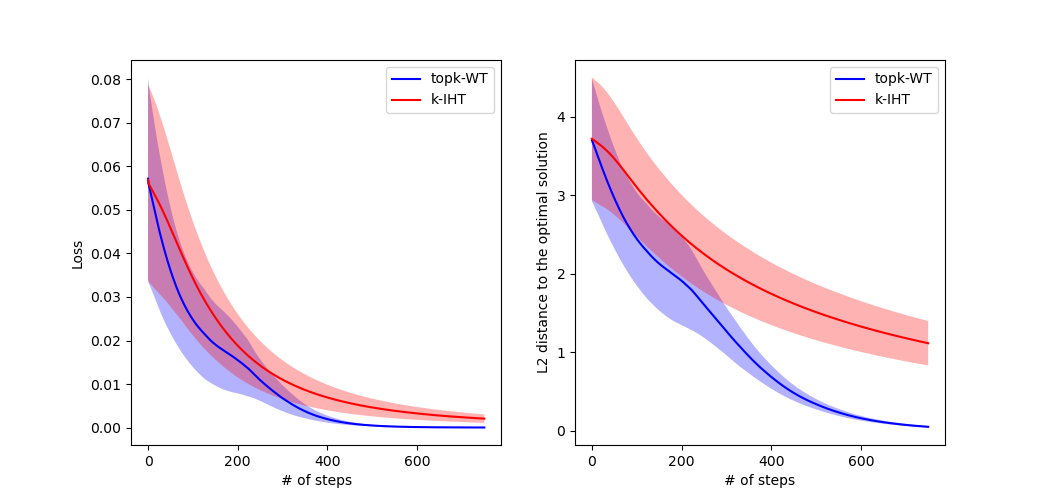
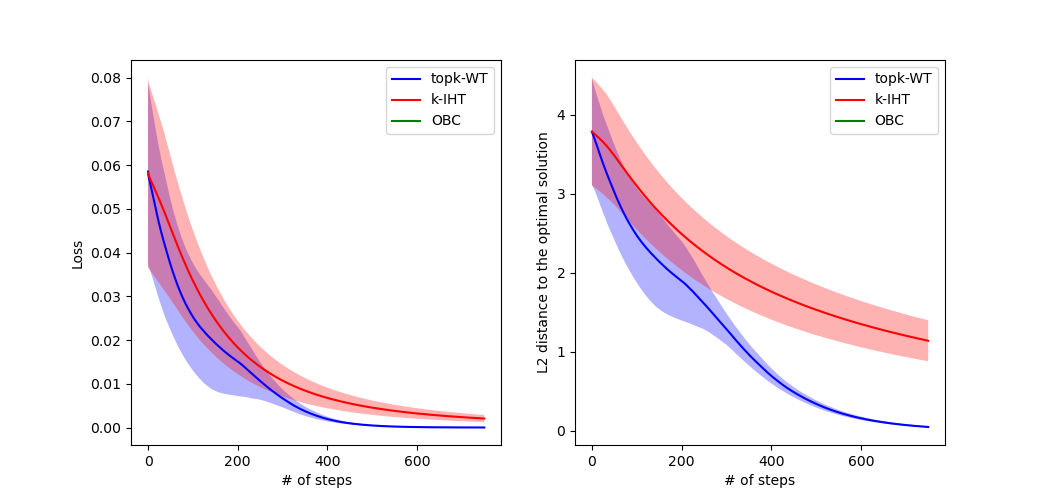
add experiemnts on obc

diff --git a/synthetic_experiments/plots.py b/synthetic_experiments/plots.py
@@ -29,14 +29,27 @@ file_name_loss_kiht = "./kiht_slinearreg_loss_{}steps_{}exprs_n{}_d{}_k{}_kstar{
 
 file_name_dist_kiht = "./kiht_slinearreg_dist_{}steps_{}exprs_n{}_d{}_k{}_kstar{}.npy".format( num_steps, num_expr, n,d,k,k_star)
 
+file_name_loss_obc = "./obc_slinearreg_loss_{}steps_{}exprs_n{}_d{}_k{}_kstar{}.npy".format( num_steps, num_expr, n,d,k,k_star)
+
+file_name_dist_obc = "./obc_slinearreg_dist_{}steps_{}exprs_n{}_d{}_k{}_kstar{}.npy".format( num_steps, num_expr, n,d,k,k_star)
+
+file_name_maskdist_obc = "./obc_slinearreg_maskdist_{}steps_{}exprs_n{}_d{}_k{}_kstar{}.npy".format( num_steps, num_expr, n,d,k,k_star)
+
 
 loss_topkwt = np.load(file_name_loss)
 
 loss_kiht = np.load(file_name_loss_kiht)
 
+loss_obc = np.load(file_name_loss_obc)
+
 dist_topkwt = np.load(file_name_dist)
 
 dist_kiht = np.load(file_name_dist_kiht)
+
+dist_obc = np.load(file_name_dist_obc)
+
+maskdist_obc = np.load(file_name_maskdist_obc)
+
 
 
 loss_topkwt_mean = np.mean(loss_topkwt, axis = 0)
@@ -47,6 +60,13 @@ loss_kiht_mean = np.mean(loss_kiht, axis = 0)
 
 loss_kiht_var = np.var(loss_kiht, axis = 0)
 
+loss_obc_mean = np.mean(loss_obc, axis = 0)
+
+loss_obc_var = np.var(loss_obc, axis = 0)
+
+
+print(loss_obc_mean)
+
 dist_topkwt_mean = np.mean(dist_topkwt, axis = 0)
 
 dist_topkwt_var = np.var(dist_topkwt, axis = 0)
@@ -56,6 +76,13 @@ dist_kiht_mean = np.mean(dist_kiht, axis = 0)
 dist_kiht_var = np.var(dist_kiht, axis = 0)
 
 
+dist_obc_mean = np.mean(dist_obc, axis = 0)
+
+dist_obc_var = np.var(dist_obc, axis = 0)
+
+maskdist_obc_mean = np.mean(maskdist_obc)
+
+maskdist_obc_var = np.var(maskdist_obc)
 
 
 plot_t = np.linspace(0,750,750)
@@ -69,6 +96,10 @@ ax[0].fill_between(plot_t, loss_topkwt_mean-np.sqrt(loss_topkwt_var), loss_topkw
 ax[0].plot(plot_t, loss_kiht_mean, label='k-IHT', color = 'red')
 
 ax[0].fill_between(plot_t, loss_kiht_mean-np.sqrt(loss_kiht_var), loss_kiht_mean+np.sqrt(loss_kiht_var), fc='red', alpha = 0.3 )
+
+ax[0].plot(plot_t, loss_obc_mean, label='OBC', color = 'green')
+
+ax[0].fill_between(plot_t, loss_obc_mean-np.sqrt(loss_obc_var), loss_obc_mean+np.sqrt(loss_obc_var), fc='green', alpha = 0.3 )
 
 ax[0].set_xlabel('# of steps')
 
@@ -84,6 +115,10 @@ ax[1].fill_between(plot_t, dist_topkwt_mean-np.sqrt(dist_topkwt_var), dist_topkw
 ax[1].plot(plot_t, dist_kiht_mean, label='k-IHT', color = 'red')
 
 ax[1].fill_between(plot_t, dist_kiht_mean-np.sqrt(dist_kiht_var), dist_kiht_mean+np.sqrt(dist_kiht_var), fc='red', alpha = 0.3 )
+
+ax[1].plot(plot_t, dist_obc_mean, label='OBC', color = 'green')
+
+ax[1].fill_between(plot_t, dist_obc_mean-np.sqrt(dist_obc_var), dist_obc_mean+np.sqrt(dist_obc_var), fc='green', alpha = 0.3 )
 
 ax[1].set_xlabel('# of steps')
 

diff --git a/synthetic_experiments/algorithms.py b/synthetic_experiments/algorithms.py
@@ -35,7 +35,10 @@ def OBC(w_in, H_inv_in,d,k):
 
     H_inv = H_inv_in
 
-    mask = torch.ones(w.shape)
+    mask = torch.ones(w.shape).view(-1)
+
+    idx_pruned = []
+
 
     for i in range(d-k):
 
@@ -43,15 +46,21 @@ def OBC(w_in, H_inv_in,d,k):
 
         #print(w.shape, diag_hinv.shape)
 
-        val =  torch.div(w**2, diag_hinv )
+        val =  torch.div(w**2, diag_hinv ).view(-1)
+
+        val[ idx_pruned ] = (torch.max(val).item()+100)*torch.ones(len( idx_pruned) ) 
 
         idx = torch.argmin(val).item()
+
+        idx_pruned.append(idx)
 
         w = w - (1/diag_hinv.view(-1)[idx].item()) * torch.mul( H_inv[:,idx], w )
 
         H_inv =  H_inv - (1/diag_hinv.view(-1)[idx].item()) * torch.matmul( H_inv[:,idx] , H_inv[idx,:] )
 
-        mask[0,idx] = 0
+        mask[idx] = 0
+
+        w = torch.mul(w, mask.view(w.shape)) # this is to eliminate numerical errors, in principle, w should already be sparse
 
         
 

diff --git a/synthetic_experiments/test.py b/synthetic_experiments/test.py
@@ -2,8 +2,28 @@ import torch
 
 from algorithms import topk, OBC
 
+from data_gen import sparse_linear_data
 
 
-a = torch.ones((4,4))
+n = 20
 
-print(torch.diag(a))
+d = 10
+
+k_star = 5
+
+k = 6
+
+X, Y, w_star = sparse_linear_data(n, d, k_star)
+
+
+hessian = torch.matmul(X.t(), X)
+
+h_inv = hessian.inverse()
+
+w_0 = torch.randn([1,d])
+
+
+w_1, mask = OBC(w_0, h_inv, d,k)
+
+print((w_1,mask))
+

diff --git a/synthetic_experiments/slinreg_topkwt.py b/synthetic_experiments/slinreg_topkwt.py
@@ -176,6 +176,8 @@ for expr in range(num_expr):
         # Backward pass
         loss.backward()
 
+        print(loss.item())
+
         # Estimate the Hessian of each parameters of the model
         # In the case of linear regression, the Hessian is fixed and can be analytcally computed
 
